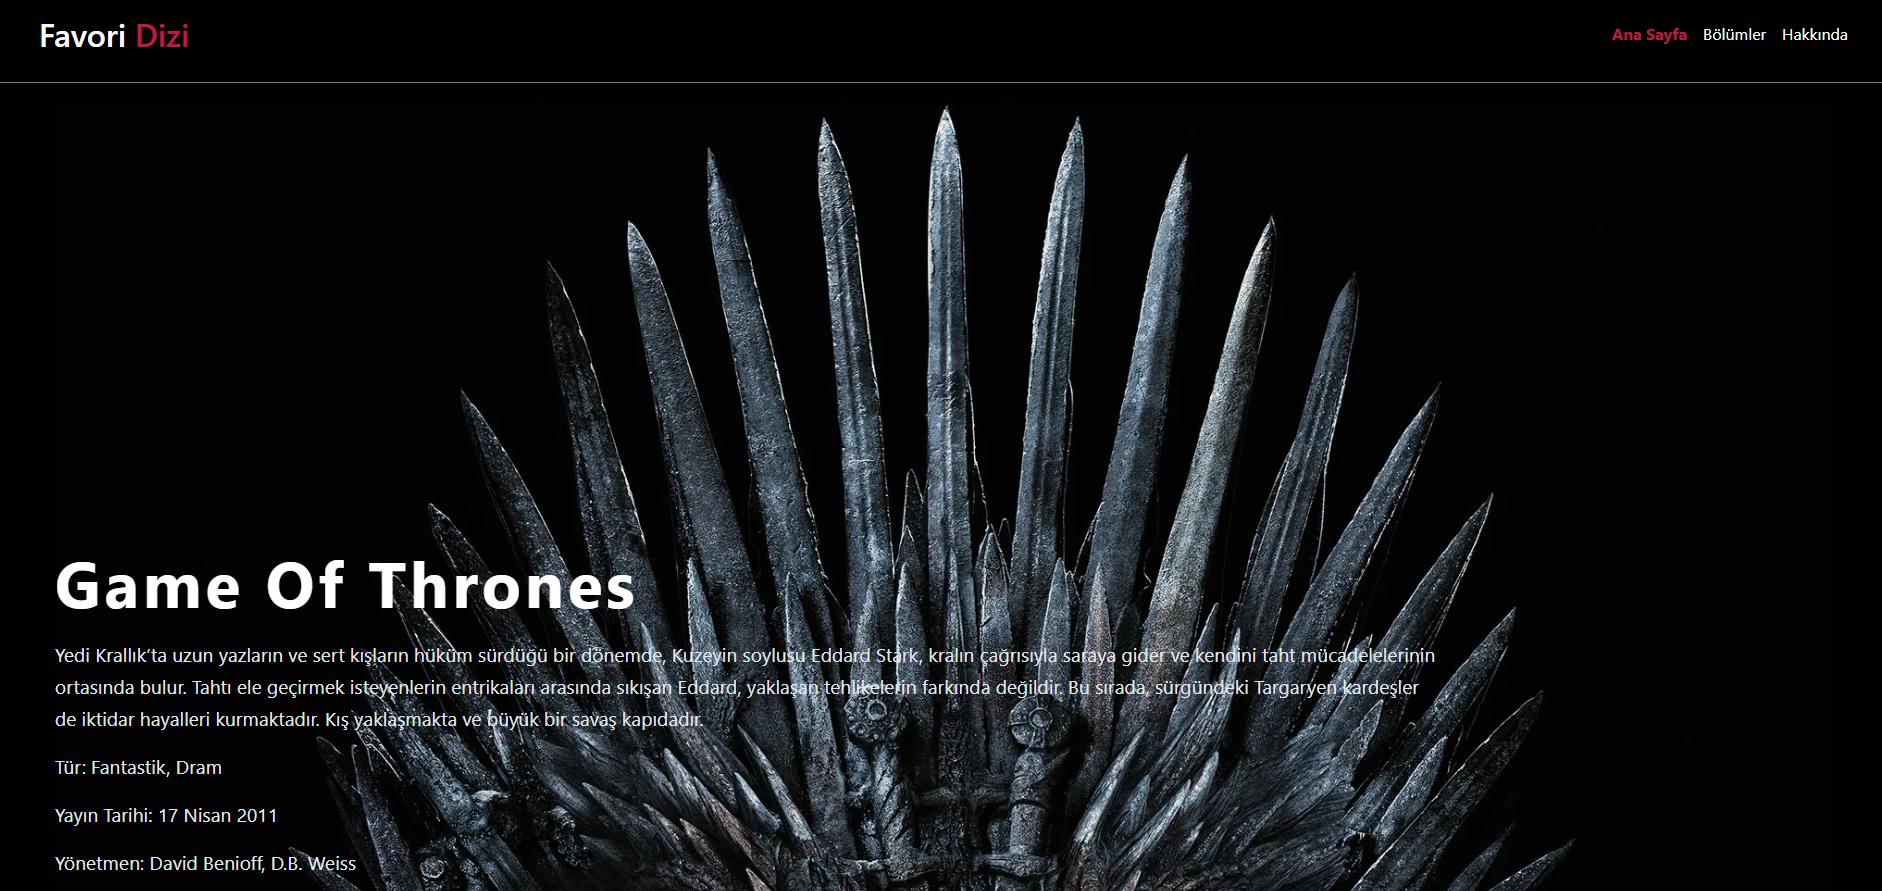
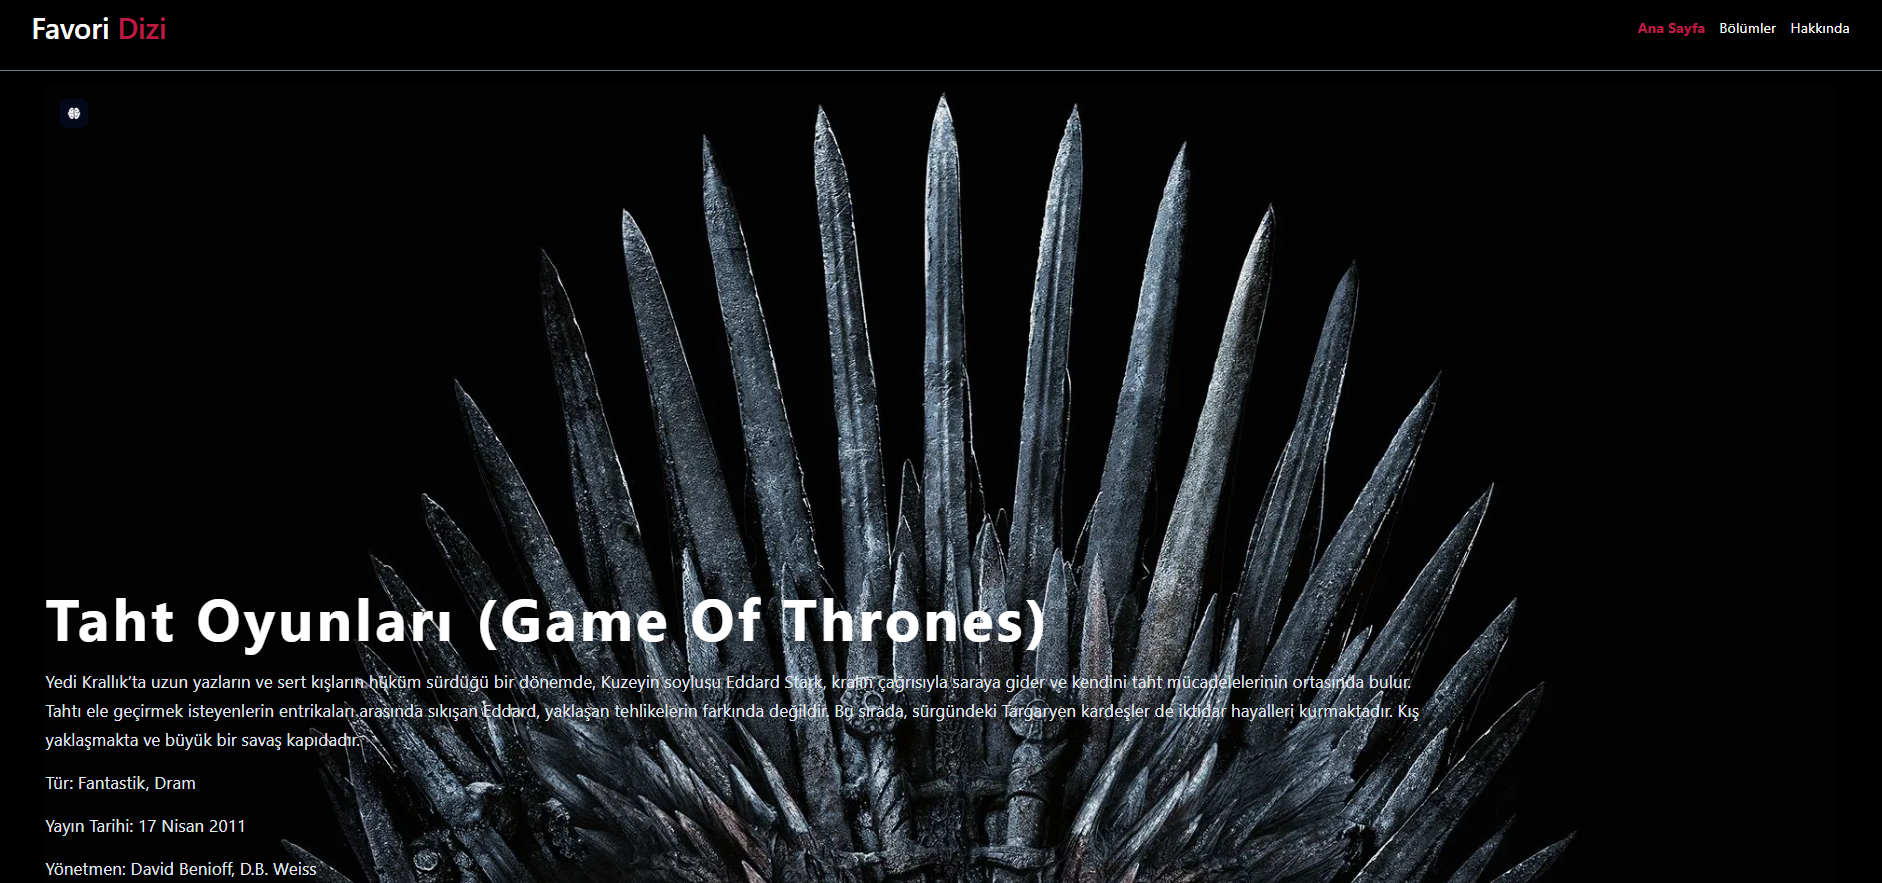
edited header

diff --git a/index.html b/index.html
@@ -16,7 +16,9 @@
   <body>
     <!-- Header Alanı -->
     <header class="navbar">
-      <div class="navbar-head"><p>Favori <span>Dizi</span> </p></div>
+      <div class="navbar-head">
+        <p>Favori <span>Dizi</span></p>
+      </div>
       <nav>
         <div class="hamburger" onclick="toggleMenu()">
           <span></span>
@@ -36,7 +38,7 @@
         <img src="./images/img3.webp" alt="Dizi Poster" />
         <div class="series-content">
           <!-- Dizi Başlık ve İçerik Alanı -->
-          <h1>Game of Thrones</h1>
+          <h1>Taht Oyunları (Game of Thrones)</h1>
           <p>
             Yedi Krallık’ta uzun yazların ve sert kışların hüküm sürdüğü bir
             dönemde, Kuzeyin soylusu Eddard Stark, kralın çağrısıyla saraya
@@ -225,7 +227,7 @@
         </div>
 
         <div class="episode-example">
-         <div class="episode-img-container">
+          <div class="episode-img-container">
             <img src="./images/castamare.jpeg" class="episode-img" />
             <button onclick="addFavorite()">
               <i class="fa-solid fa-heart"></i>
